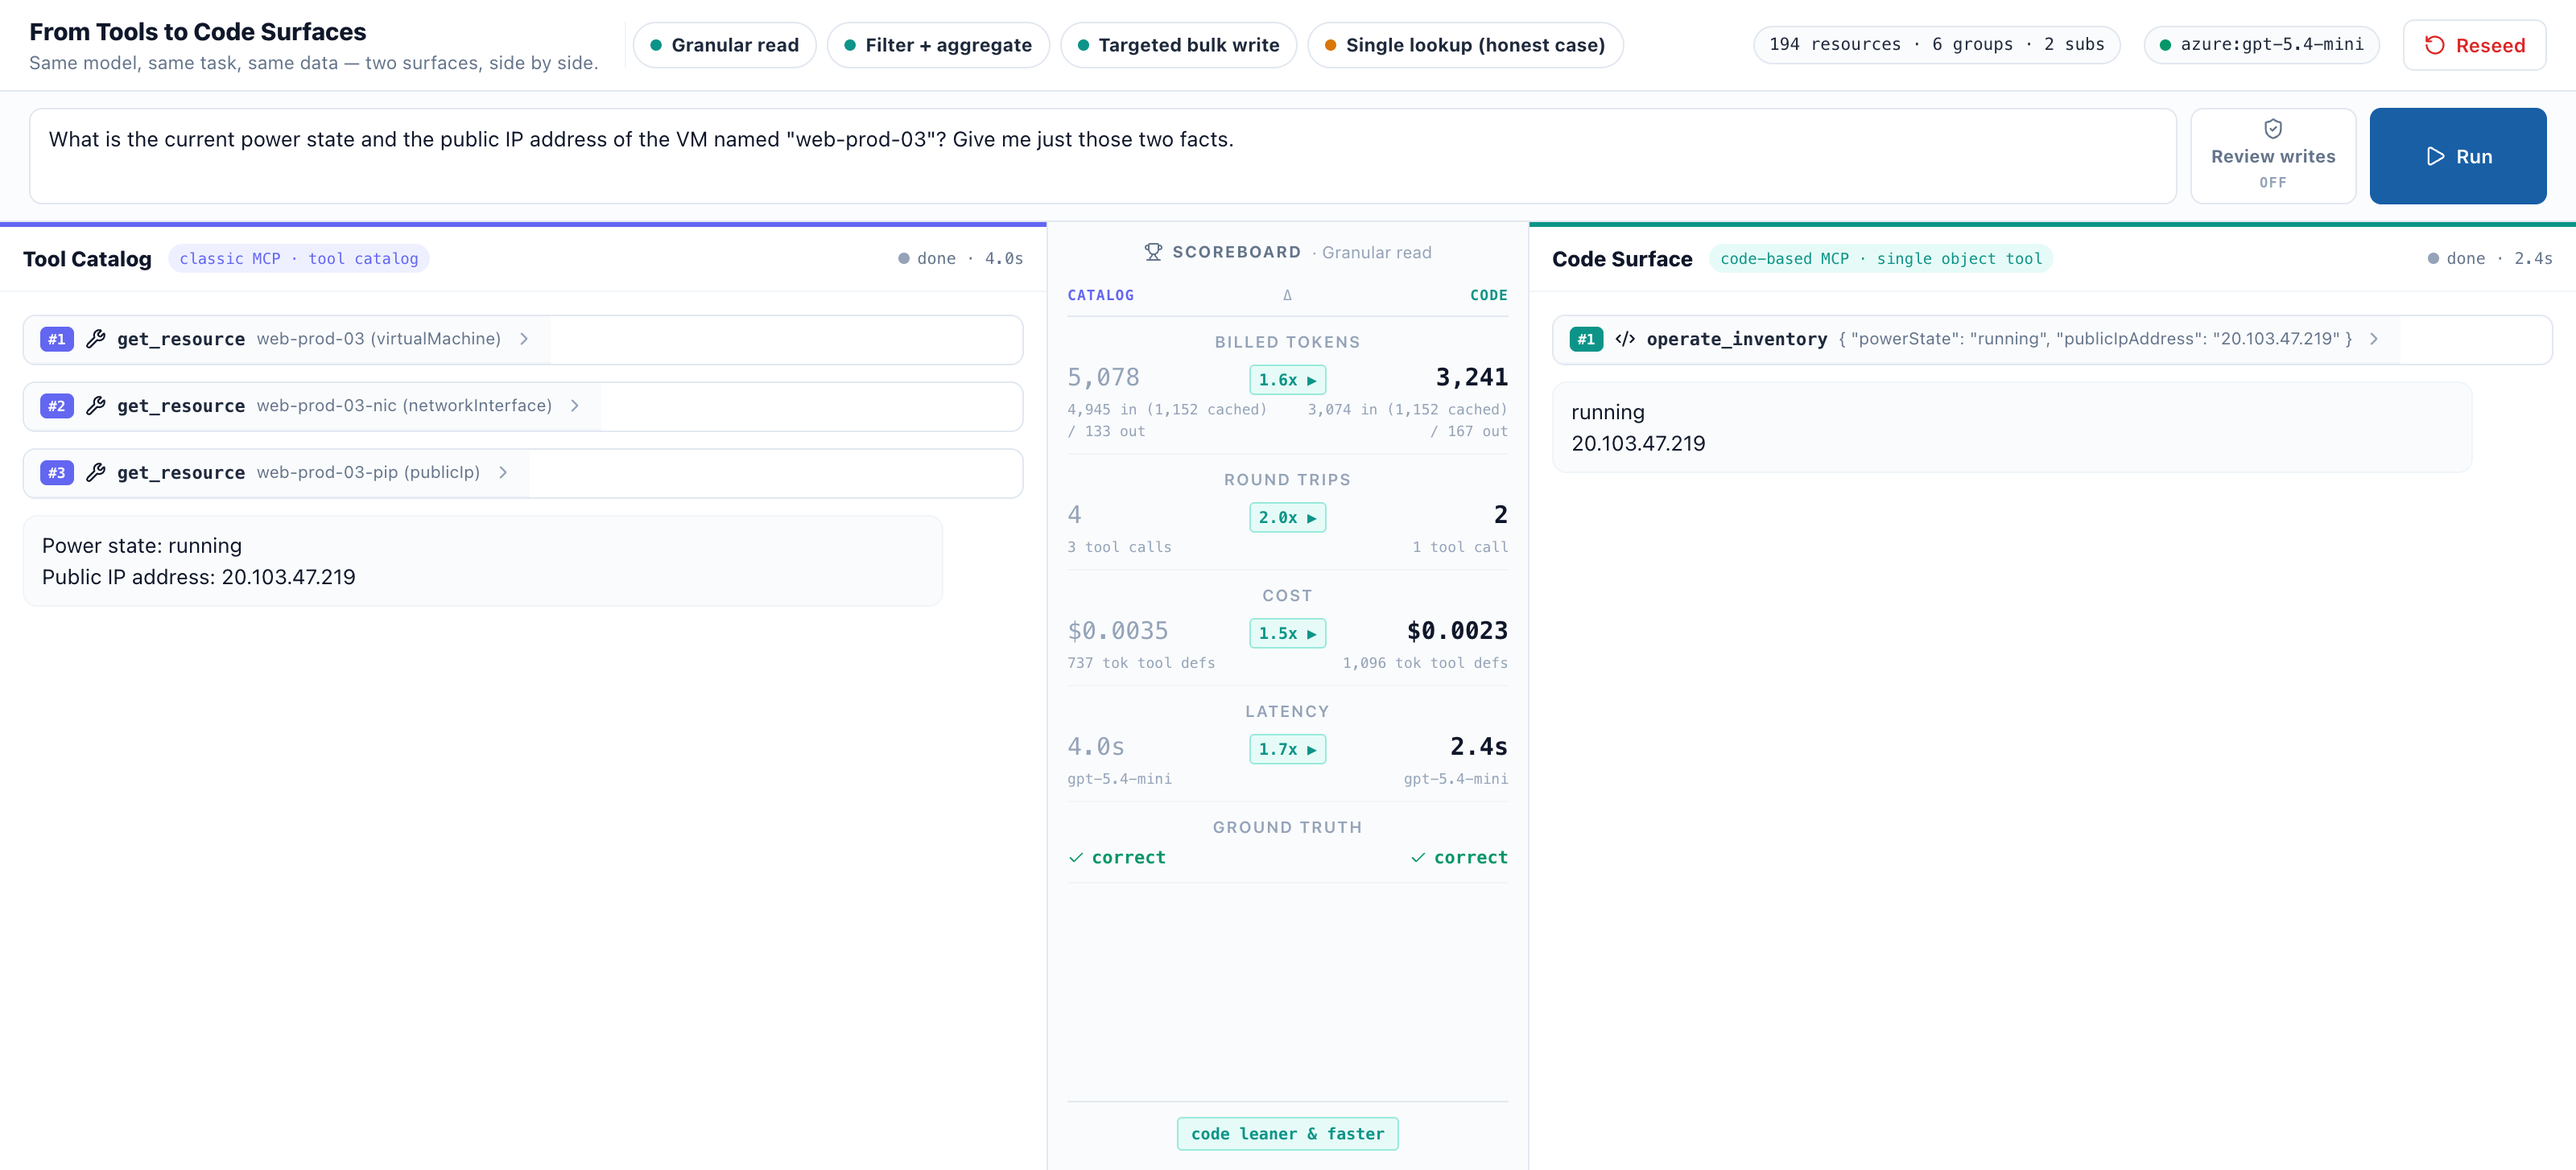
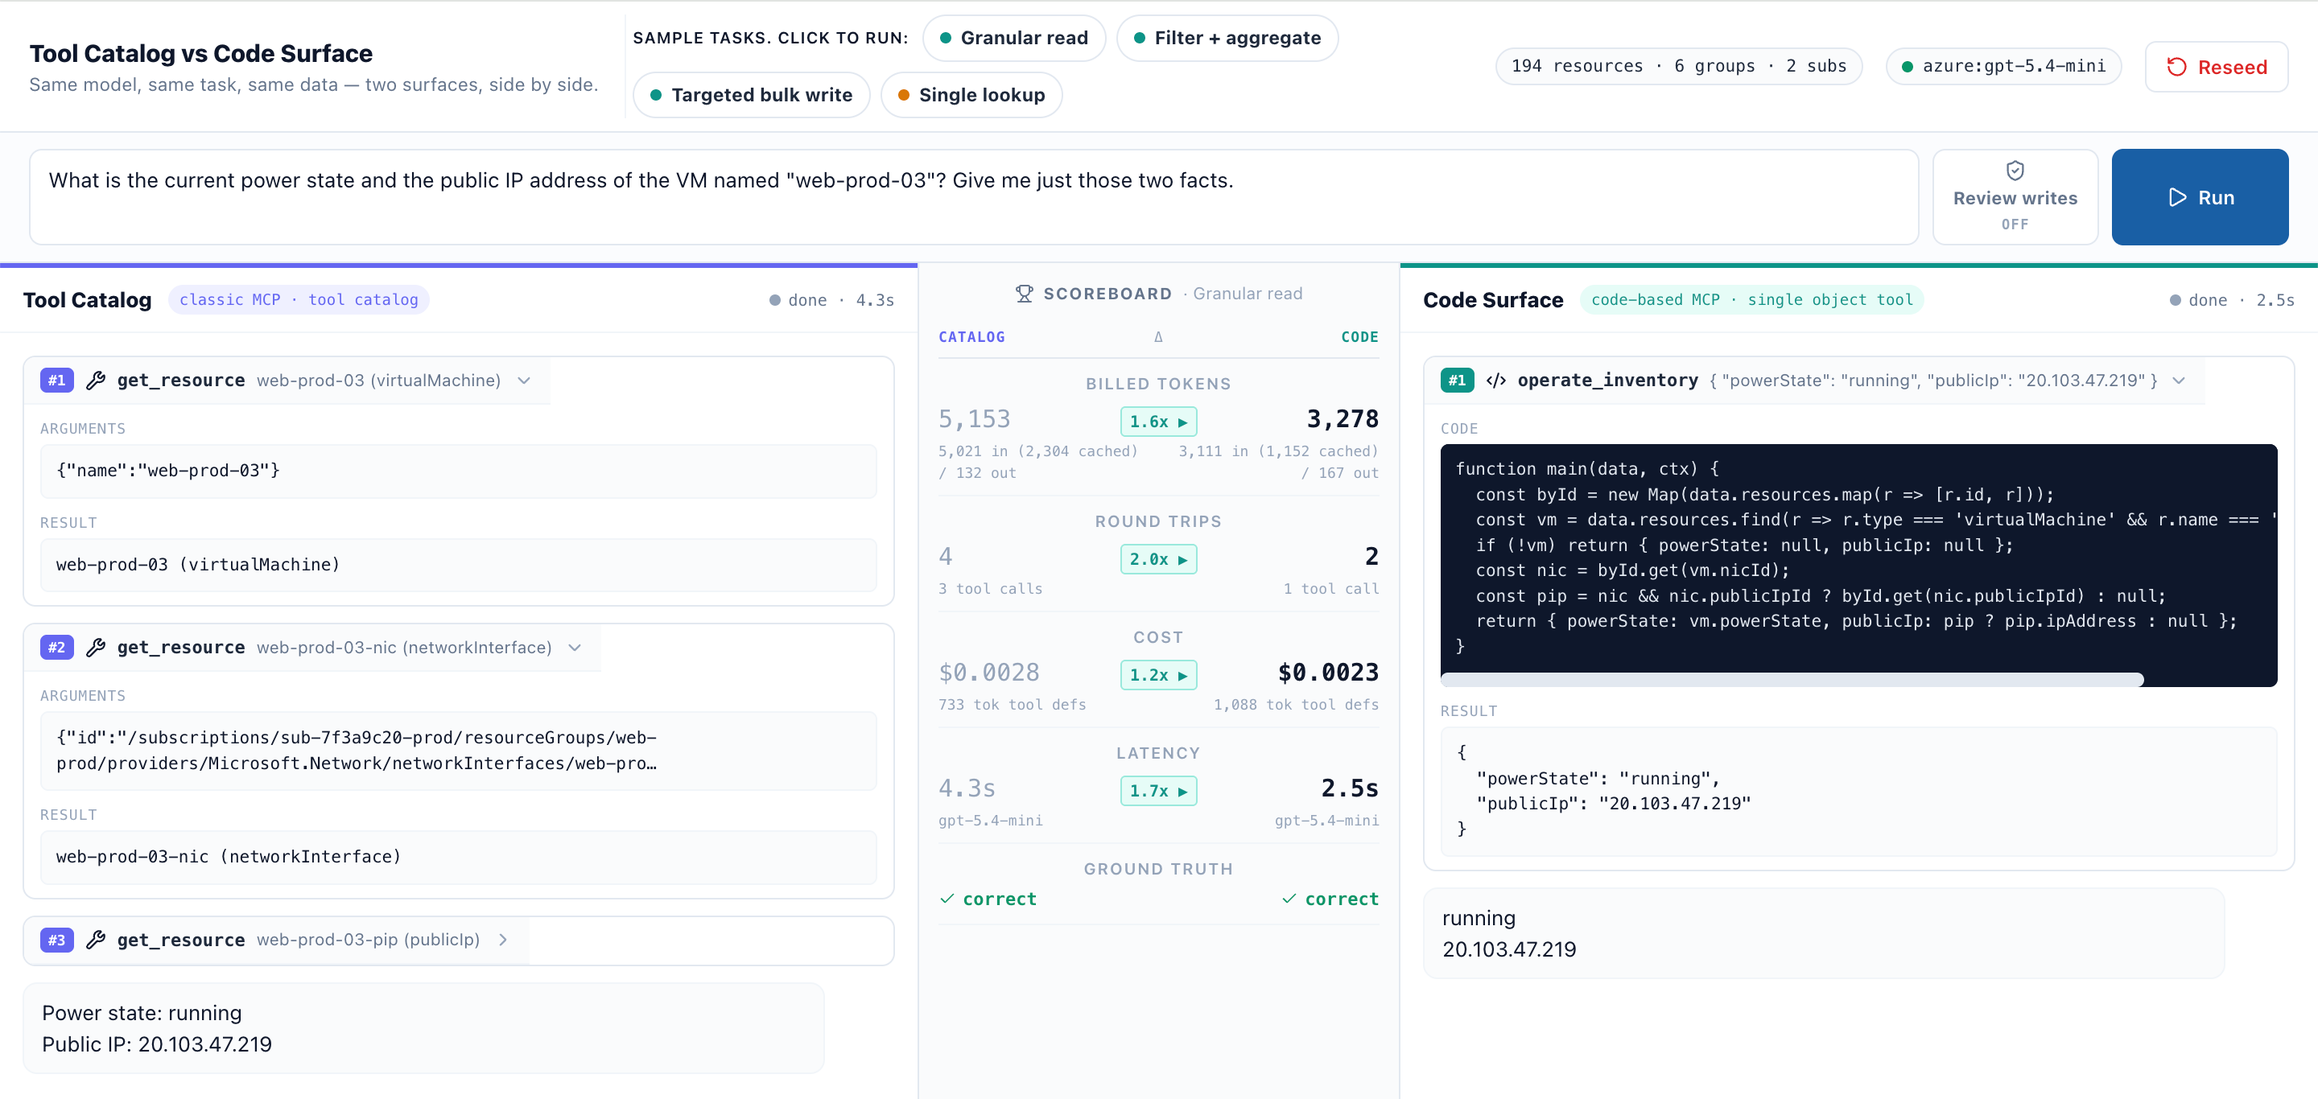
chore: upd screenshot+cleanup fe

diff --git a/src/lib/components/Scoreboard.svelte b/src/lib/components/Scoreboard.svelte
@@ -69,22 +69,6 @@
     return fmtRatio(Math.max(c, k), Math.min(c, k));
   }
 
-  let summary = $derived.by(() => {
-    if (!hasRun) return null;
-    if (verdicts && verdicts.catalog.state !== 'pending' && verdicts.code.state !== 'pending') {
-      const cOk = verdicts.catalog.state === 'correct';
-      const kOk = verdicts.code.state === 'correct';
-      if (cOk !== kOk) return { text: `only ${kOk ? 'code' : 'catalog'} matched ground truth`, dir: kOk ? 'code' : 'catalog' };
-    }
-    const tokWin = winner(catalog.metrics.totalTokens, code.metrics.totalTokens);
-    const latWin = winner(catalog.metrics.elapsedMs, code.metrics.elapsedMs);
-    if (tokWin === 'tie' && latWin === 'tie') return { text: '≈ dead heat', dir: 'tie' };
-    if (tokWin === latWin) return { text: `${tokWin} leaner & faster`, dir: tokWin };
-    const parts: string[] = [];
-    if (tokWin !== 'tie') parts.push(`${tokWin} leaner`);
-    if (latWin !== 'tie') parts.push(`${latWin} faster`);
-    return { text: parts.join(' · '), dir: tokWin !== 'tie' ? tokWin : latWin };
-  });
 </script>
 
 <aside class="ledger" data-empty={!hasRun}>
@@ -181,15 +165,7 @@
     {/if}
   </div>
 
-  {#if summary}
-    <div class="ledger-verdict">
-      <span class="chip" data-dir={summary.dir}>{summary.text}</span>
-    </div>
-  {:else}
-    <div class="ledger-verdict">
-      <span class="hint">pick a task or type a prompt<br />to fill the ledger</span>
-    </div>
-  {/if}
+
 </aside>
 
 <style>

diff --git a/src/routes/+page.svelte b/src/routes/+page.svelte
@@ -143,7 +143,7 @@
 <div class="bench-shell">
   <header class="bench-header">
     <div class="title-block">
-      <div class="title">From Tools to Code Surfaces</div>
+      <div class="title">Tool Catalog vs Code Surface</div>
       <div class="subtitle">Same model, same task, same data — two surfaces, side by side.</div>
     </div>
 
